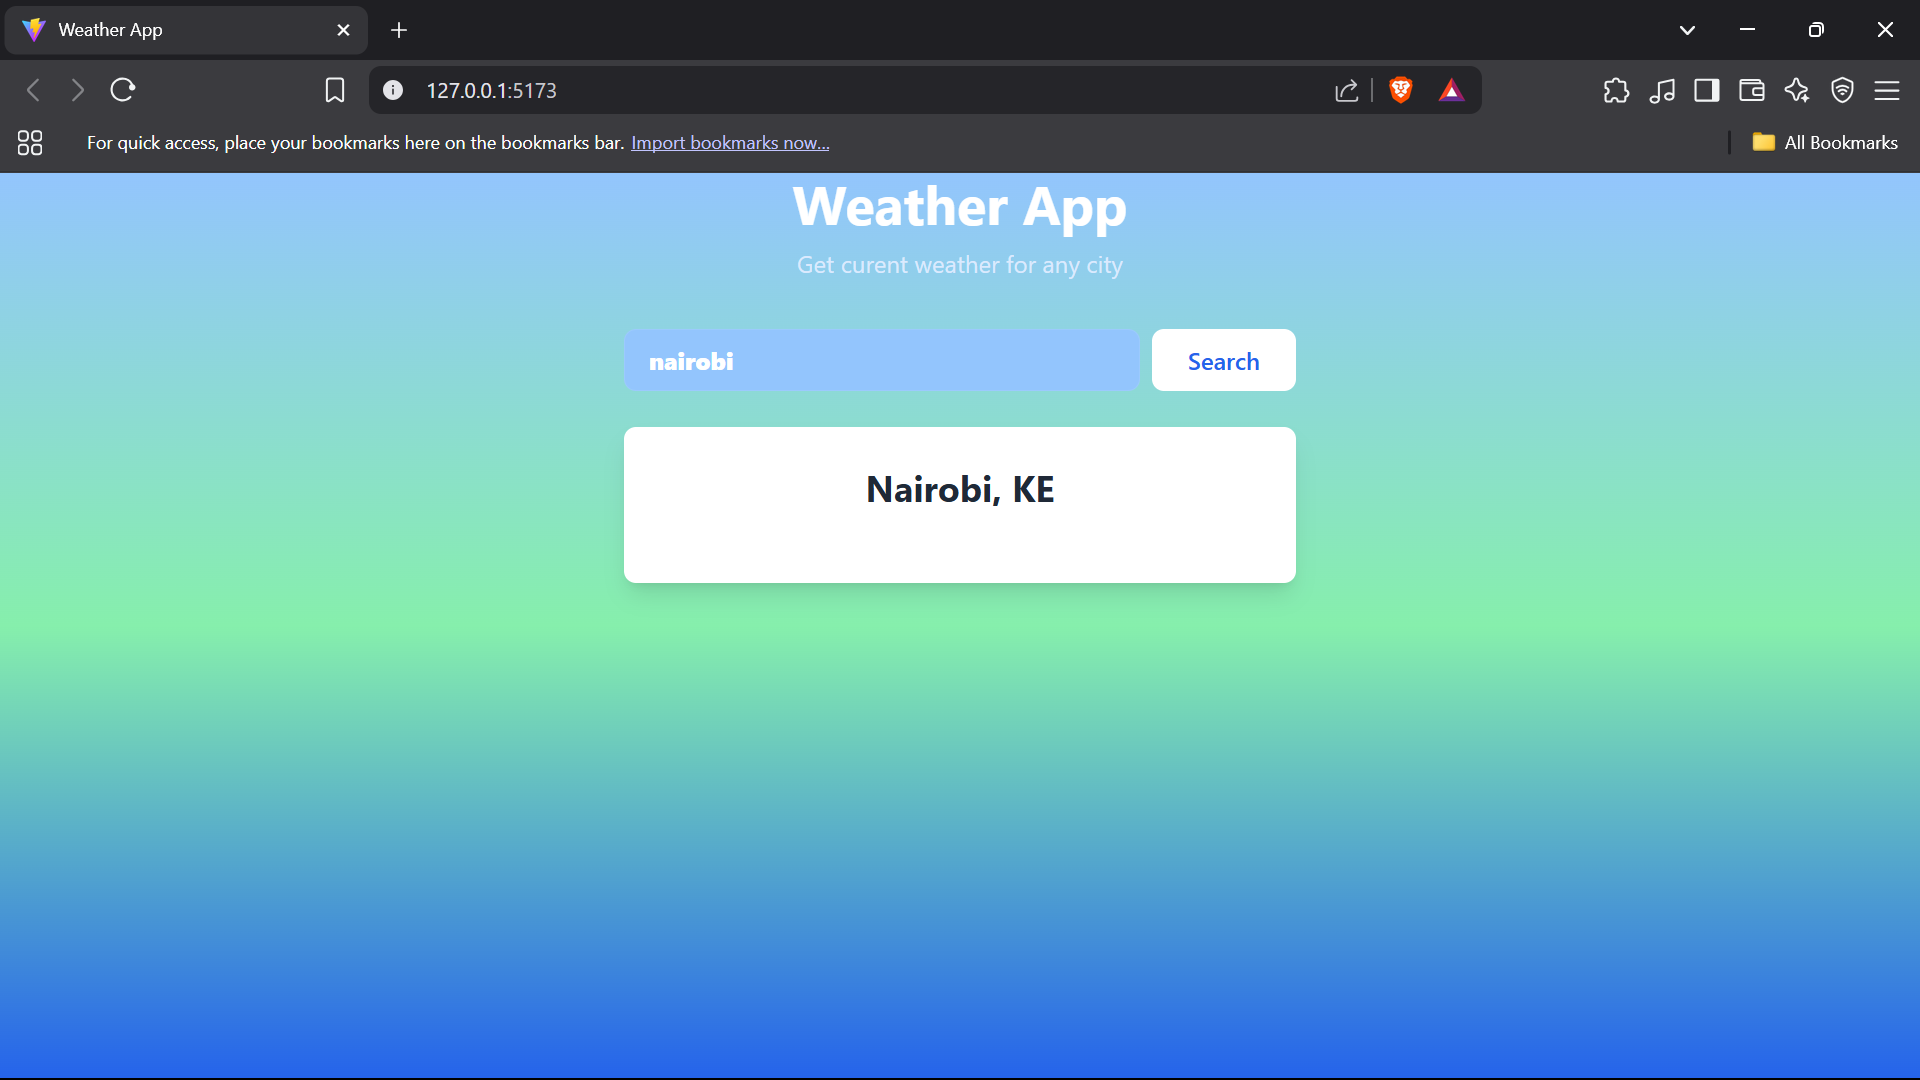
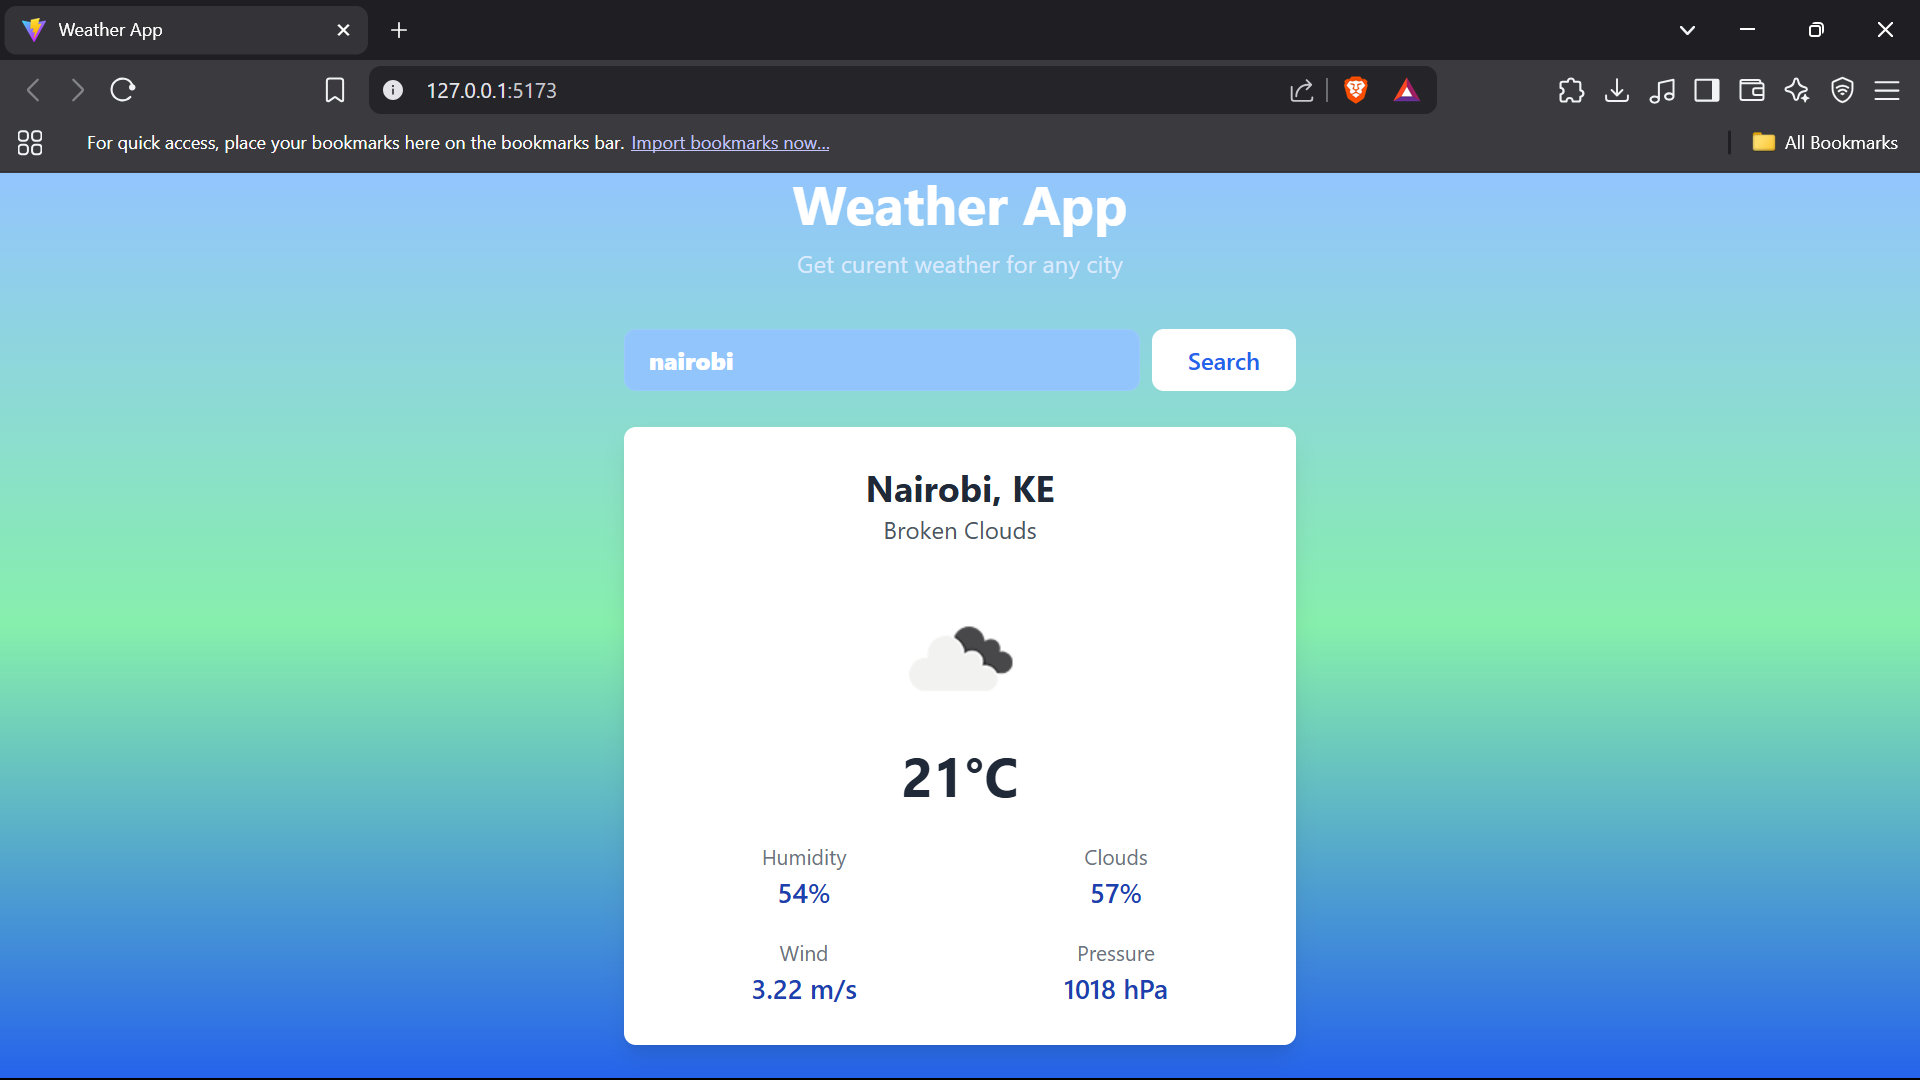
doc: upadted screenshot

Changed region(s): [[0.3125, 0.4889, 0.6875, 0.9778], [0.6875, 0.0611, 0.7812, 0.0917], [0.8125, 0.0611, 0.8438, 0.0917]]

diff --git a/src/Weather.jsx b/src/Weather.jsx
@@ -5,9 +5,12 @@ const API_KEY = import.meta.env.VITE_OPENWEATHER_API_KEY;
 
 function Weather() {
   const [weatherData, setWeatherData] = useState(null)
+  const [loading, setLoading] = useState(false)
   const [city, setCity] = useState('nairobi')
 
   const fetchWeatherData = async(cityName) => {
+
+    setLoading(true)
     const url = `${BASE_URL}?q=${cityName}&appid=${API_KEY}&units=metric`
 
     const response = await fetch(url)
@@ -15,6 +18,7 @@ function Weather() {
     const data = await response.json()
 
     setWeatherData(data)
+    setLoading(false)
   }
 
   useEffect(() => {
@@ -64,6 +68,15 @@ function Weather() {
           </div>
         </form>
 
+        {loading && (
+          <div className="flex flex-col items-center justify-center py-10">
+            {/* Spinner */}
+            <div className="animate-spin rounded-full h-12 w-12 border-4 border-blue-600 border-t-transparent mb-4"></div>
+            {/* Loader Text */}
+            <p className="text-blue-800 font-semibold">Fetching weather data...</p>
+          </div>
+        )}
+
         {
           weatherData && (
             <div className='bg-white rounded-lg shadow-lg p-6'>
@@ -71,7 +84,39 @@ function Weather() {
                 <h2 className='text-2xl font-bold text-gray-800'>
                   {weatherData.name}, {weatherData.sys.country}
                 </h2>
+                <p className='text-gray-600 capitalize'>{weatherData.weather[0].description}</p>
               </div>
+              
+              <div>
+                <img
+                src={`https://openweathermap.org/img/wn/${weatherData.weather[0].icon}@2x.png`} alt={weatherData.weather[0].description}
+                className='mx-auto mb-2'
+                />
+
+                <div
+                className='text-4xl font-bold text-gray-800 text-center mb-2'>{Math.round(weatherData.main.temp)}&deg;C
+                </div>
+                
+                <div className="grid grid-cols-2 gap-4 mt-6 text-center">
+                  <div>
+                    <div className="text-sm text-gray-500">Humidity</div>
+                    <div className="text-lg font-semibold text-blue-800">{weatherData.main.humidity}%</div>
+                  </div>
+                  <div>
+                    <div className="text-sm text-gray-500">Clouds</div>
+                    <div className="text-lg font-semibold text-blue-800">{weatherData.clouds.all}%</div>
+                  </div>
+                  <div>
+                    <div className="text-sm text-gray-500">Wind</div>
+                    <div className="text-lg font-semibold text-blue-800">{weatherData.wind.speed} m/s</div>
+                  </div>
+                  <div>
+                    <div className="text-sm text-gray-500">Pressure</div>
+                    <div className="text-lg font-semibold text-blue-800">{weatherData.main.pressure} hPa</div>
+                  </div>
+                </div>
+
+              </div> 
             </div>
           )
         }
